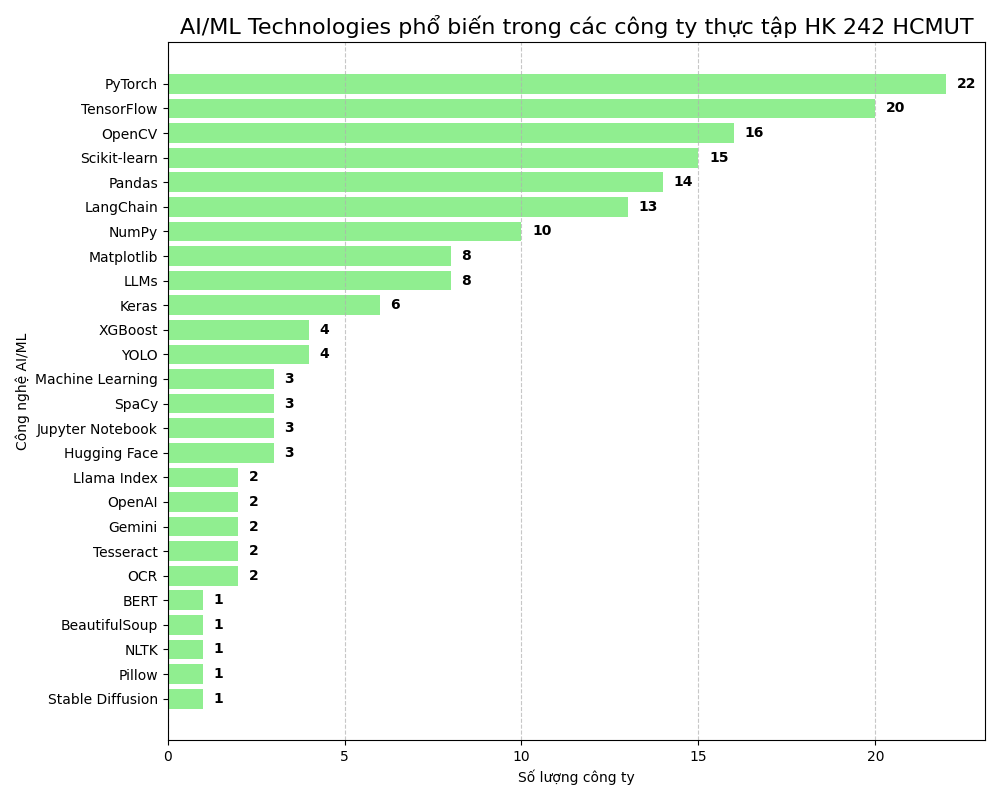
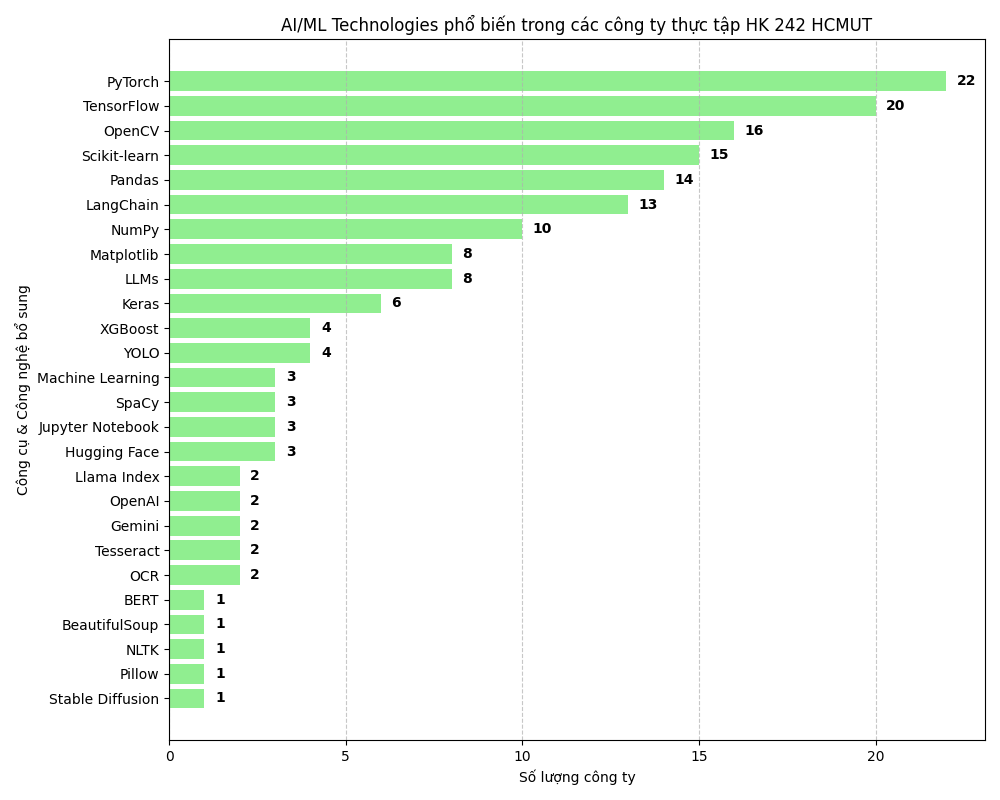
update func and charts

diff --git a/src/chart.py b/src/chart.py
@@ -976,6 +976,25 @@ def count_normalized_keywords(df, keywords, column_name):
     
     return counter
 
+# Tạo biểu đồ
+def create_chart(title, color, counts, save_name):
+    plt.figure(figsize=(10, 8))
+    bars = plt.barh(list(counts.keys()), list(counts.values()), color=color)
+    plt.title(f'{title} phổ biến trong các công ty thực tập HK 242 HCMUT', fontsize=12)
+    plt.xlabel('Số lượng công ty')
+    plt.ylabel('Công cụ & Công nghệ bổ sung')
+    plt.grid(axis='x', linestyle='--', alpha=0.7)
+
+    # Thêm số lượng cụ thể vào đầu mỗi cột
+    for bar in bars:
+        width = bar.get_width()
+        plt.text(width + 0.3, bar.get_y() + bar.get_height()/2, f'{width}',
+                ha='left', va='center', fontweight='bold')
+
+    plt.tight_layout()
+    plt.savefig(f'chart/{save_name}.png')
+    plt.close()
+
 # Đếm ngôn ngữ và framework sau khi đã chuẩn hóa
 language_counts = count_normalized_keywords(df, languages, 'Ngôn ngữ / Framework')
 frontend_counts = count_normalized_keywords(df, frontend_technologies, 'Ngôn ngữ / Framework')
@@ -1006,217 +1025,39 @@ low_code_business_counts = dict(sorted(low_code_business_counts.items(), key=lam
 tools_misc_counts = dict(sorted(tools_misc_counts.items(), key=lambda x: x[1], reverse=False))
 
 # Tạo biểu đồ ngang cho ngôn ngữ
-plt.figure(figsize=(10, 8))
-bars = plt.barh(list(language_counts.keys()), list(language_counts.values()), color='skyblue')
-plt.title('Ngôn ngữ lập trình phổ biến trong các công ty thực tập HK 242 HCMUT', fontsize=16)
-plt.xlabel('Số lượng công ty')
-plt.ylabel('Ngôn ngữ')
-plt.grid(axis='x', linestyle='--', alpha=0.7)
-
-# Thêm số lượng cụ thể vào đầu mỗi cột
-for bar in bars:
-    width = bar.get_width()
-    plt.text(width + 0.3, bar.get_y() + bar.get_height()/2, f'{width}',
-            ha='left', va='center', fontweight='bold')
-
-plt.tight_layout()
-plt.savefig('chart/languages_chart.png')
-plt.close()
+create_chart('Ngôn ngữ lập trình', 'skyblue', language_counts, 'languages_chart')
 
 # Tạo biểu đồ ngang cho Front-end
-plt.figure(figsize=(10, 8))
-bars = plt.barh(list(frontend_counts.keys()), list(frontend_counts.values()), color='skyblue')
-plt.title('Front-end library and framework trong các công ty thực tập HK 242 HCMUT', fontsize=16)
-plt.xlabel('Số lượng công ty')
-plt.ylabel('Ngôn ngữ')
-plt.grid(axis='x', linestyle='--', alpha=0.7)
-
-# Thêm số lượng cụ thể vào đầu mỗi cột
-for bar in bars:
-    width = bar.get_width()
-    plt.text(width + 0.3, bar.get_y() + bar.get_height()/2, f'{width}',
-            ha='left', va='center', fontweight='bold')
-
-plt.tight_layout()
-plt.savefig('chart/front-end_chart.png')
-plt.close()
+create_chart('Front-end library and framework', 'skyblue', frontend_counts, 'front-end_chart')
 
 # Tạo biểu đồ ngang cho backend
-plt.figure(figsize=(10, 8))
-bars = plt.barh(list(backend_counts.keys()), list(backend_counts.values()), color='lightblue')
-plt.title('Backend Technologies phổ biến trong các công ty thực tập HK 242 HCMUT', fontsize=16)
-plt.xlabel('Số lượng công ty')
-plt.ylabel('Công nghệ Backend')
-plt.grid(axis='x', linestyle='--', alpha=0.7)
-
-# Thêm số lượng cụ thể vào đầu mỗi cột
-for bar in bars:
-    width = bar.get_width()
-    plt.text(width + 0.3, bar.get_y() + bar.get_height()/2, f'{width}',
-            ha='left', va='center', fontweight='bold')
-
-plt.tight_layout()
-plt.savefig('chart/backend_chart.png')
-plt.close()
+create_chart('Backend Technologies', 'lightblue', backend_counts, 'backend_chart')
 
 # Tạo biểu đồ ngang cho database
-plt.figure(figsize=(10, 8))
-bars = plt.barh(list(database_counts.keys()), list(database_counts.values()), color='lightcoral')
-plt.title('Database Technologies phổ biến trong các công ty thực tập HK 242 HCMUT', fontsize=16)
-plt.xlabel('Số lượng công ty')
-plt.ylabel('Công nghệ Database')
-plt.grid(axis='x', linestyle='--', alpha=0.7)
-
-# Thêm số lượng cụ thể vào đầu mỗi cột
-for bar in bars:
-    width = bar.get_width()
-    plt.text(width + 0.3, bar.get_y() + bar.get_height()/2, f'{width}',
-            ha='left', va='center', fontweight='bold')
-
-plt.tight_layout()
-plt.savefig('chart/database_chart.png')
-plt.close()
+create_chart('Database Technologies', 'lightcoral', database_counts, 'database_chart')
 
 # Tạo biểu đồ ngang cho AI/ML
-plt.figure(figsize=(10, 8))
-bars = plt.barh(list(ai_ml_counts.keys()), list(ai_ml_counts.values()), color='lightgreen')
-plt.title('AI/ML Technologies phổ biến trong các công ty thực tập HK 242 HCMUT', fontsize=16)
-plt.xlabel('Số lượng công ty')
-plt.ylabel('Công nghệ AI/ML')
-plt.grid(axis='x', linestyle='--', alpha=0.7)
-
-# Thêm số lượng cụ thể vào đầu mỗi cột
-for bar in bars:
-    width = bar.get_width()
-    plt.text(width + 0.3, bar.get_y() + bar.get_height()/2, f'{width}',
-            ha='left', va='center', fontweight='bold')
-
-plt.tight_layout()
-plt.savefig('chart/ai_ml_chart.png')
-plt.close()
+create_chart('AI/ML Technologies', 'lightgreen', ai_ml_counts, 'ai_ml_chart')
 
 # Tạo biểu đồ ngang cho DevOps/Cloud
-plt.figure(figsize=(10, 8))
-bars = plt.barh(list(devops_cloud_counts.keys()), list(devops_cloud_counts.values()), color='lightsalmon')
-plt.title('DevOps/Cloud Technologies phổ biến trong các công ty thực tập HK 242 HCMUT', fontsize=16)
-plt.xlabel('Số lượng công ty')
-plt.ylabel('Công nghệ DevOps/Cloud')
-plt.grid(axis='x', linestyle='--', alpha=0.7)
-
-# Thêm số lượng cụ thể vào đầu mỗi cột
-for bar in bars:
-    width = bar.get_width()
-    plt.text(width + 0.3, bar.get_y() + bar.get_height()/2, f'{width}',
-            ha='left', va='center', fontweight='bold')
-
-plt.tight_layout()
-plt.savefig('chart/devops_cloud_chart.png')
-plt.close()
+create_chart('DevOps/Cloud Technologies', 'lightsalmon', devops_cloud_counts, 'devops_cloud_chart')
 
 # Tạo biểu đồ ngang cho Mobile
-plt.figure(figsize=(10, 8))
-bars = plt.barh(list(mobile_counts.keys()), list(mobile_counts.values()), color='mediumpurple')
-plt.title('Mobile Development Technologies phổ biến trong các công ty thực tập HK 242 HCMUT', fontsize=16)
-plt.xlabel('Số lượng công ty')
-plt.ylabel('Công nghệ Mobile')
-plt.grid(axis='x', linestyle='--', alpha=0.7)
-
-# Thêm số lượng cụ thể vào đầu mỗi cột
-for bar in bars:
-    width = bar.get_width()
-    plt.text(width + 0.3, bar.get_y() + bar.get_height()/2, f'{width}',
-            ha='left', va='center', fontweight='bold')
-
-plt.tight_layout()
-plt.savefig('chart/mobile_chart.png')
-plt.close()
+create_chart('Mobile Development Technologies', 'mediumpurple', mobile_counts, 'mobile_chart')
 
 # Tạo biểu đồ ngang cho Game Development
-plt.figure(figsize=(10, 8))
-bars = plt.barh(list(game_dev_counts.keys()), list(game_dev_counts.values()), color='gold')
-plt.title('Game Development Technologies phổ biến trong các công ty thực tập HK 242 HCMUT', fontsize=16)
-plt.xlabel('Số lượng công ty')
-plt.ylabel('Công nghệ Game Development')
-plt.grid(axis='x', linestyle='--', alpha=0.7)
-
-# Thêm số lượng cụ thể vào đầu mỗi cột
-for bar in bars:
-    width = bar.get_width()
-    plt.text(width + 0.3, bar.get_y() + bar.get_height()/2, f'{width}',
-            ha='left', va='center', fontweight='bold')
-
-plt.tight_layout()
-plt.savefig('chart/game_dev_chart.png')
-plt.close()
+create_chart('Game Development Technologies', 'gold', game_dev_counts, 'game_dev_chart')
 
 # Tạo biểu đồ ngang cho IoT/Embedded
-plt.figure(figsize=(10, 8))
-bars = plt.barh(list(iot_embedded_counts.keys()), list(iot_embedded_counts.values()), color='aquamarine')
-plt.title('IoT/Embedded Technologies phổ biến trong các công ty thực tập HK 242 HCMUT', fontsize=16)
-plt.xlabel('Số lượng công ty')
-plt.ylabel('Công nghệ IoT/Embedded')
-plt.grid(axis='x', linestyle='--', alpha=0.7)
-
-# Thêm số lượng cụ thể vào đầu mỗi cột
-for bar in bars:
-    width = bar.get_width()
-    plt.text(width + 0.3, bar.get_y() + bar.get_height()/2, f'{width}',
-            ha='left', va='center', fontweight='bold')
-
-plt.tight_layout()
-plt.savefig('chart/iot_embedded_chart.png')
-plt.close()
+create_chart('IoT/Embedded Technologies', 'aquamarine', iot_embedded_counts, 'iot_embedded_chart')
 
 # Tạo biểu đồ ngang cho Testing/Security
-plt.figure(figsize=(10, 8))
-bars = plt.barh(list(testing_security_counts.keys()), list(testing_security_counts.values()), color='orchid')
-plt.title('Testing/Security Technologies phổ biến trong các công ty thực tập HK 242 HCMUT', fontsize=16)
-plt.xlabel('Số lượng công ty')
-plt.ylabel('Công nghệ Testing/Security')
-plt.grid(axis='x', linestyle='--', alpha=0.7)
-
-# Thêm số lượng cụ thể vào đầu mỗi cột
-for bar in bars:
-    width = bar.get_width()
-    plt.text(width + 0.3, bar.get_y() + bar.get_height()/2, f'{width}',
-            ha='left', va='center', fontweight='bold')
-
-plt.tight_layout()
-plt.savefig('chart/testing_security_chart.png')
-plt.close()
+create_chart('Testing/Security Technologies', 'orchid', testing_security_counts, 'testing_security_chart')
 
 # Tạo biểu đồ ngang cho Low-Code/No-Code & Business Tools
-plt.figure(figsize=(10, 8))
-bars = plt.barh(list(low_code_business_counts.keys()), list(low_code_business_counts.values()), color='paleturquoise')
-plt.title('Low-Code/No-Code & Business Tools phổ biến trong các công ty thực tập HK 242 HCMUT', fontsize=16)
-plt.xlabel('Số lượng công ty')
-plt.ylabel('Công nghệ Low-Code/No-Code & Business')
-plt.grid(axis='x', linestyle='--', alpha=0.7)
-
-# Thêm số lượng cụ thể vào đầu mỗi cột
-for bar in bars:
-    width = bar.get_width()
-    plt.text(width + 0.3, bar.get_y() + bar.get_height()/2, f'{width}',
-            ha='left', va='center', fontweight='bold')
-
-plt.tight_layout()
-plt.savefig('chart/low_code_business_chart.png')
-plt.close()
+create_chart('Low-Code/No-Code & Business Tools','paleturquoise', low_code_business_counts,'low_code_business_chart')
 
 # Tạo biểu đồ ngang cho Tools & Misc Technologies
-plt.figure(figsize=(10, 8))
-bars = plt.barh(list(tools_misc_counts.keys()), list(tools_misc_counts.values()), color='plum')
-plt.title('Tools & Misc Technologies phổ biến trong các công ty thực tập HK 242 HCMUT', fontsize=16)
-plt.xlabel('Số lượng công ty')
-plt.ylabel('Công cụ & Công nghệ bổ sung')
-plt.grid(axis='x', linestyle='--', alpha=0.7)
+create_chart('Tools & Misc Technologies', 'plum', tools_misc_counts, 'tools_misc_chart')
 
-# Thêm số lượng cụ thể vào đầu mỗi cột
-for bar in bars:
-    width = bar.get_width()
-    plt.text(width + 0.3, bar.get_y() + bar.get_height()/2, f'{width}',
-            ha='left', va='center', fontweight='bold')
 
-plt.tight_layout()
-plt.savefig('chart/tools_misc_chart.png')
-plt.close()
